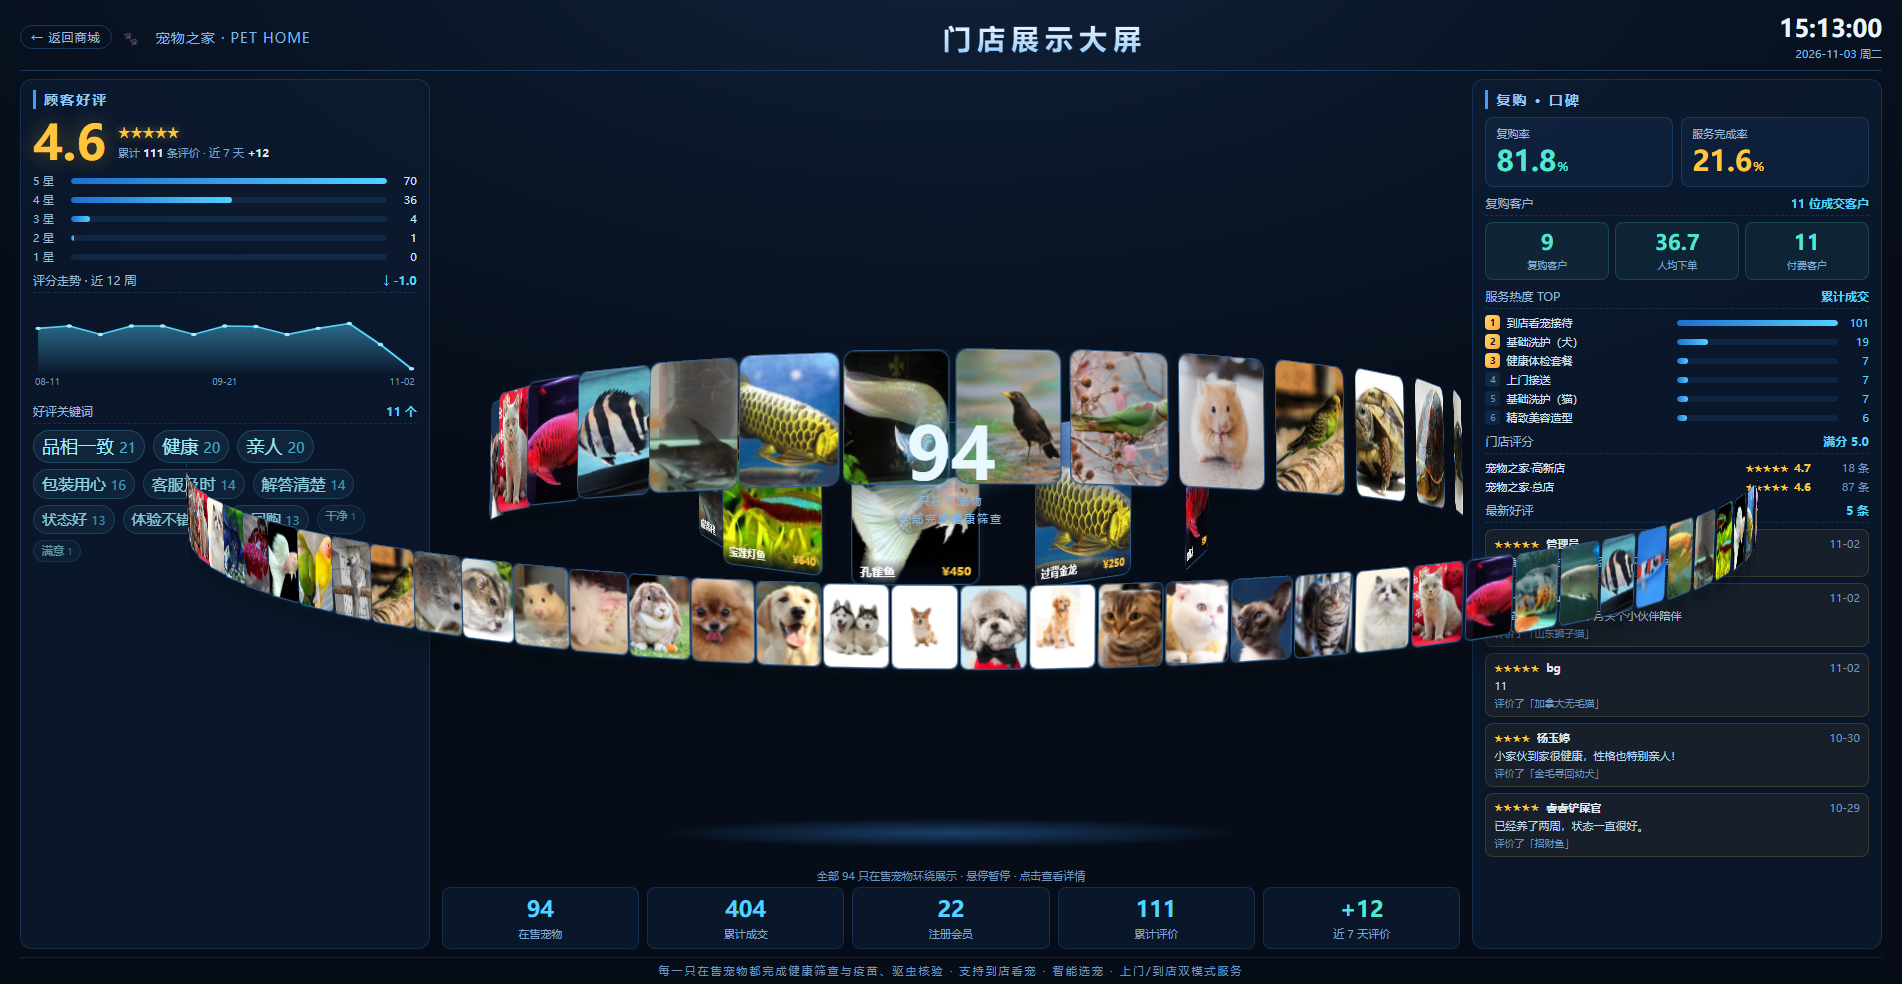
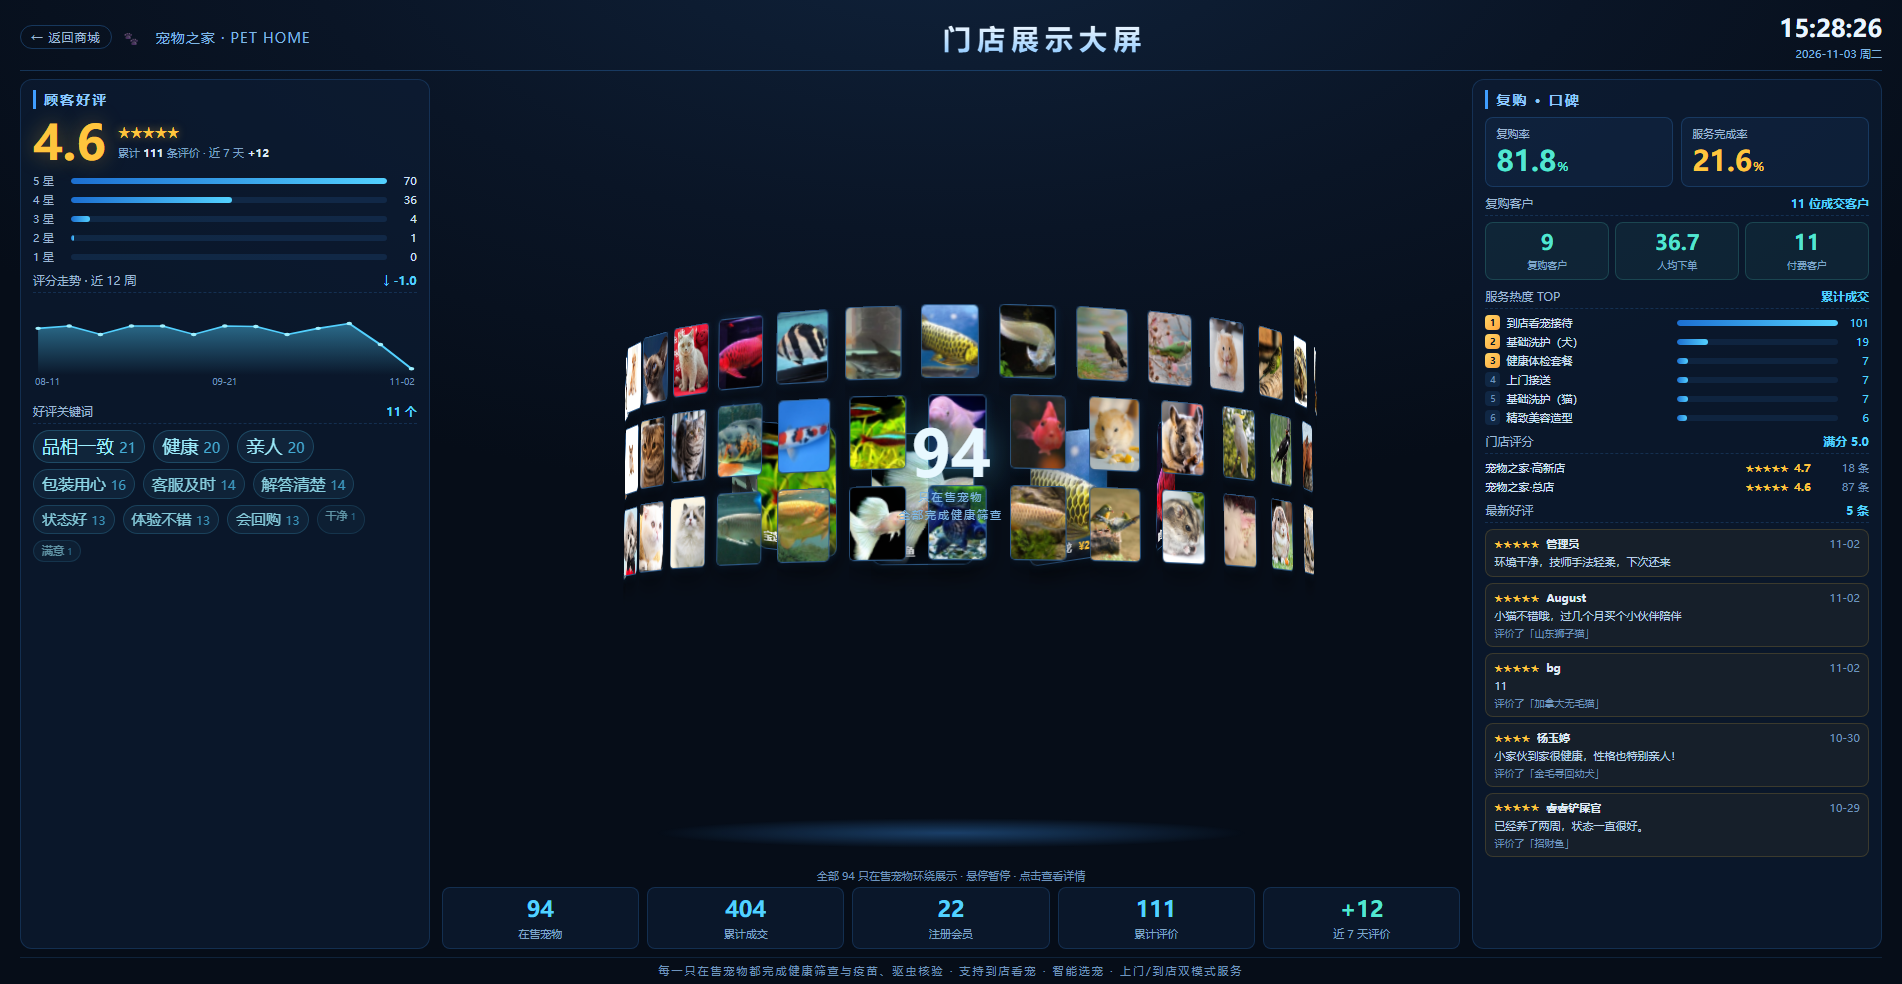
fix(display): 3D 旋转环自适应尺寸，全部卡片收在中央舞台内
- 外环 96 只改为 3 层同轴圆柱叠放（每层 32 张，纵向错开），半径由容器宽高实时计算
- ResizeObserver + resize 监听动态调整半径/层距/卡片缩放，窗口变化不越界
- scene 加 overflow:hidden 兜底；中心数字随环同比缩放
- cdp_display.mjs 新增越界断言：0/106 张超出舞台、不压左右侧栏，本地+远程 23 断言全过

Changed region(s): [[0.0931, 0.3049, 0.9306, 0.7012], [0.9616, 0.0, 0.9926, 0.061]]

diff --git a/pet-web/src/views/shop/display/index.vue b/pet-web/src/views/shop/display/index.vue
@@ -73,16 +73,16 @@
         </div>
       </section>
 
-      <!-- 中：三层 3D 旋转环（全部在售宠物） -->
+      <!-- 中：3D 旋转环（全部在售宠物，尺寸随容器自适应，不越界） -->
       <section class="stage">
-        <div class="scene" @mouseenter="paused = true" @mouseleave="paused = false">
+        <div ref="sceneRef" class="scene" :style="sceneStyle" @mouseenter="paused = true" @mouseleave="paused = false">
           <div class="core">
             <span class="core-num">{{ petsTotal }}</span>
             <span class="core-text">只在售宠物<br />全部完成健康筛查</span>
           </div>
 
-          <!-- 内层：精选 10 张大图 -->
-          <div class="ring ring-inner" :class="{ paused }" :style="{ '--r': '250px' }">
+          <!-- 内层：精选大图（带名字价格） -->
+          <div class="ring ring-inner" :class="{ paused }" :style="innerRingStyle">
             <div
               v-for="(p, i) in innerPets"
               :key="'i' + p.petId"
@@ -98,26 +98,19 @@
             </div>
           </div>
 
-          <!-- 中层：每 3 只取 1 只 -->
-          <div class="ring ring-mid" :class="{ paused }" :style="{ '--r': '470px' }">
+          <!-- 外层：全部在售宠物，分 3 层圆柱叠放（同轴同速，纵向错开） -->
+          <div
+            v-for="(tier, ti) in outerTiers"
+            :key="'tier' + ti"
+            class="ring ring-outer"
+            :class="{ paused }"
+            :style="outerRingStyle(ti)"
+          >
             <div
-              v-for="(p, i) in midPets"
-              :key="'m' + p.petId"
-              class="ring-card mid"
-              :style="{ '--a': (360 / (midPets.length || 1)) * i + 'deg' }"
-              @click="goPet(p)"
-            >
-              <img :src="p.image" :alt="p.petName" loading="lazy" />
-            </div>
-          </div>
-
-          <!-- 外层：全部在售宠物 -->
-          <div class="ring ring-outer" :class="{ paused }" :style="{ '--r': '760px' }">
-            <div
-              v-for="(p, i) in pets"
+              v-for="(p, i) in tier"
               :key="'o' + p.petId"
               class="ring-card mini"
-              :style="{ '--a': (360 / (pets.length || 1)) * i + 'deg' }"
+              :style="{ '--a': (360 / (tier.length || 1)) * i + 'deg' }"
               @click="goPet(p)"
             >
               <img :src="p.image" :alt="p.petName" loading="lazy" />
@@ -239,9 +232,55 @@ const storeRating = computed(() => data.value?.storeRating || [])
 const keywords = computed(() => (data.value?.keywords || []).slice(0, 12))
 const recentCount = computed(() => data.value?.recentCommentCount ?? 0)
 
-// 三层环：内层精选 10、中层每 3 只取 1、外层全部
+// 环：内层精选 10 张大图 + 外层全部在售宠物（按 3 层圆柱叠放，每层同轴旋转）
 const innerPets = computed(() => pets.value.slice(0, 10))
-const midPets = computed(() => pets.value.filter((_, i) => i % 3 === 0).slice(0, 32))
+const OUTER_TIERS = 3
+const outerTiers = computed(() => {
+  const tiers = Array.from({ length: OUTER_TIERS }, () => [])
+  pets.value.forEach((p, i) => tiers[i % OUTER_TIERS].push(p))
+  return tiers
+})
+
+// ---- 3D 环自适应半径：以容器可用宽高为上限，保证整圈都在中间区域内 ----
+const sceneRef = ref(null)
+const outerR = ref(300)
+const tierGap = ref(74)
+let resizeObserver = null
+
+const computeRingSize = () => {
+  const el = sceneRef.value
+  if (!el) return
+  const w = el.clientWidth || 0
+  const h = el.clientHeight || 0
+  if (!w || !h) return
+  // 水平：半径不超过可用宽度一半，留出卡片自身宽度与透视放大余量
+  const byWidth = w / 2 - Math.max(56, w * 0.1)
+  // 竖直：3 层圆柱总高约 2*tierGap + 卡高，再加上 8° 倾斜后的椭圆投影
+  const byHeight = h / 2 - 24
+  const r = Math.min(byWidth, byHeight, 340)
+  outerR.value = Math.max(150, Math.round(r))
+  tierGap.value = Math.max(52, Math.round(Math.min(78, outerR.value * 0.26)))
+}
+
+// 卡片按半径同比缩放，避免小屏时一圈挤在一起
+const ringScale = computed(() => Math.max(0.56, Math.min(1, outerR.value / 290)))
+const innerR = computed(() => Math.round(outerR.value * 0.64))
+const outerRingStyle = (tierIndex) => ({
+  '--r': outerR.value + 'px',
+  '--y': (tierIndex - 1) * tierGap.value + 'px',
+  '--sz': ringScale.value.toFixed(2),
+  '--dur': '76s',
+})
+const innerRingStyle = computed(() => ({
+  '--r': innerR.value + 'px',
+  '--y': '0px',
+  '--sz': Math.min(1, ringScale.value + 0.18).toFixed(2),
+  '--dur': '34s',
+}))
+// 中心大数字随环同比缩放，避免小屏时压到卡片
+const sceneStyle = computed(() => ({
+  '--core': Math.max(0.6, Math.min(1, outerR.value / 330)).toFixed(2),
+}))
 
 const maxHits = computed(() => Math.max(1, ...keywords.value.map((k) => k.hits || 0)))
 const tagSize = (hits) => Math.round(11 + Math.min(hits / maxHits.value, 1) * 7)
@@ -325,8 +364,19 @@ onMounted(() => {
   loadSummary()
   setInterval(loadSummary, 60000)
   setInterval(loadPets, 300000)
+  // 环半径跟随容器尺寸，窗口/分栏变化时重算，保证旋转范围永远在中间区域内
+  computeRingSize()
+  if (typeof ResizeObserver !== 'undefined') {
+    resizeObserver = new ResizeObserver(computeRingSize)
+    if (sceneRef.value) resizeObserver.observe(sceneRef.value)
+  }
+  window.addEventListener('resize', computeRingSize)
 })
-onUnmounted(() => clearInterval(clockTimer))
+onUnmounted(() => {
+  clearInterval(clockTimer)
+  if (resizeObserver) resizeObserver.disconnect()
+  window.removeEventListener('resize', computeRingSize)
+})
 </script>
 
 <style scoped>
@@ -456,18 +506,19 @@ onUnmounted(() => clearInterval(clockTimer))
 }
 .tag i { font-style: normal; color: #53d1ff; font-size: 0.8em; opacity: 0.8; }
 
-/* 中：三层 3D 环 */
-.stage { display: flex; flex-direction: column; align-items: center; gap: 4px; min-height: 0; }
+/* 中：3D 环（半径由 JS 按容器自适应，始终收在中间区域内） */
+.stage { display: flex; flex-direction: column; align-items: center; gap: 4px; min-height: 0; overflow: hidden; }
 .scene {
   position: relative;
   flex: 1;
   width: 100%;
-  perspective: 2800px;
-  perspective-origin: 50% 45%;
+  perspective: 2400px;
+  perspective-origin: 50% 48%;
   display: flex;
   align-items: center;
   justify-content: center;
   min-height: 0;
+  overflow: hidden;
 }
 .core {
   position: absolute;
@@ -477,14 +528,14 @@ onUnmounted(() => clearInterval(clockTimer))
 }
 .core-num {
   display: block;
-  font-size: clamp(40px, 5vw, 72px);
+  font-size: calc(clamp(34px, 4.2vw, 64px) * var(--core, 1));
   font-weight: 800;
   line-height: 1;
   color: #e8f8ff;
   text-shadow: 0 0 34px rgba(83, 209, 255, 0.65);
   font-variant-numeric: tabular-nums;
 }
-.core-text { display: block; margin-top: 4px; font-size: 11px; color: #7fb8e6; letter-spacing: 2px; line-height: 1.6; }
+.core-text { display: block; margin-top: 4px; font-size: calc(11px * var(--core, 1)); color: #7fb8e6; letter-spacing: 2px; line-height: 1.6; }
 
 .ring {
   position: absolute;
@@ -494,9 +545,8 @@ onUnmounted(() => clearInterval(clockTimer))
   height: 0;
   transform-style: preserve-3d;
 }
-.ring-inner { animation: ring-spin 34s linear infinite; }
-.ring-mid { animation: ring-spin-rev 52s linear infinite; }
-.ring-outer { animation: ring-spin 76s linear infinite; }
+.ring-inner { animation: ring-spin var(--dur, 34s) linear infinite; }
+.ring-outer { animation: ring-spin-rev var(--dur, 76s) linear infinite; }
 .ring.paused { animation-play-state: paused; }
 @keyframes ring-spin {
   from { transform: rotateX(-8deg) rotateY(0deg); }
@@ -515,22 +565,21 @@ onUnmounted(() => clearInterval(clockTimer))
   cursor: pointer;
   backface-visibility: hidden;
   background: #0d1e37;
-  transform: rotateY(var(--a)) translateZ(var(--r)) translate(-50%, -50%);
+  transform: rotateY(var(--a)) translateZ(var(--r)) translate(-50%, calc(-50% + var(--y, 0px)));
   transition: box-shadow 0.3s, border-color 0.3s;
 }
 .ring-card:hover { border-color: #53d1ff; box-shadow: 0 8px 30px rgba(0, 0, 0, 0.6), 0 0 22px rgba(83, 209, 255, 0.55); }
 .ring-card img { width: 100%; height: 100%; object-fit: cover; display: block; }
-.ring-card.big { width: 120px; height: 154px; }
-.ring-card.mid { width: 88px; height: 112px; }
-.ring-card.mini { width: 50px; height: 64px; border-radius: 6px; }
+.ring-card.big { width: calc(96px * var(--sz, 1)); height: calc(124px * var(--sz, 1)); }
+.ring-card.mini { width: calc(50px * var(--sz, 1)); height: calc(64px * var(--sz, 1)); border-radius: 5px; }
 .ring-info {
   position: absolute;
   left: 0; right: 0; bottom: 0;
   display: flex;
   justify-content: space-between;
   align-items: center;
-  padding: 5px 7px;
-  font-size: 11px;
+  padding: calc(5px * var(--sz, 1)) calc(7px * var(--sz, 1));
+  font-size: calc(11px * var(--sz, 1));
   background: linear-gradient(transparent, rgba(4, 12, 24, 0.94));
 }
 .pet-name { color: #fff; font-weight: 600; }
